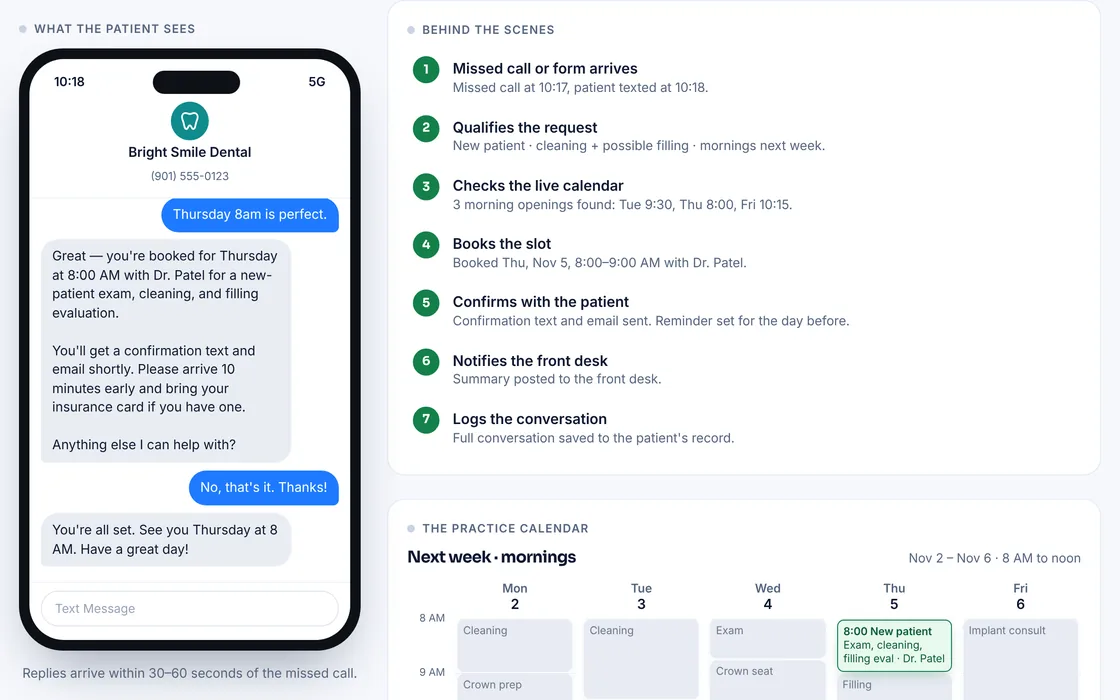
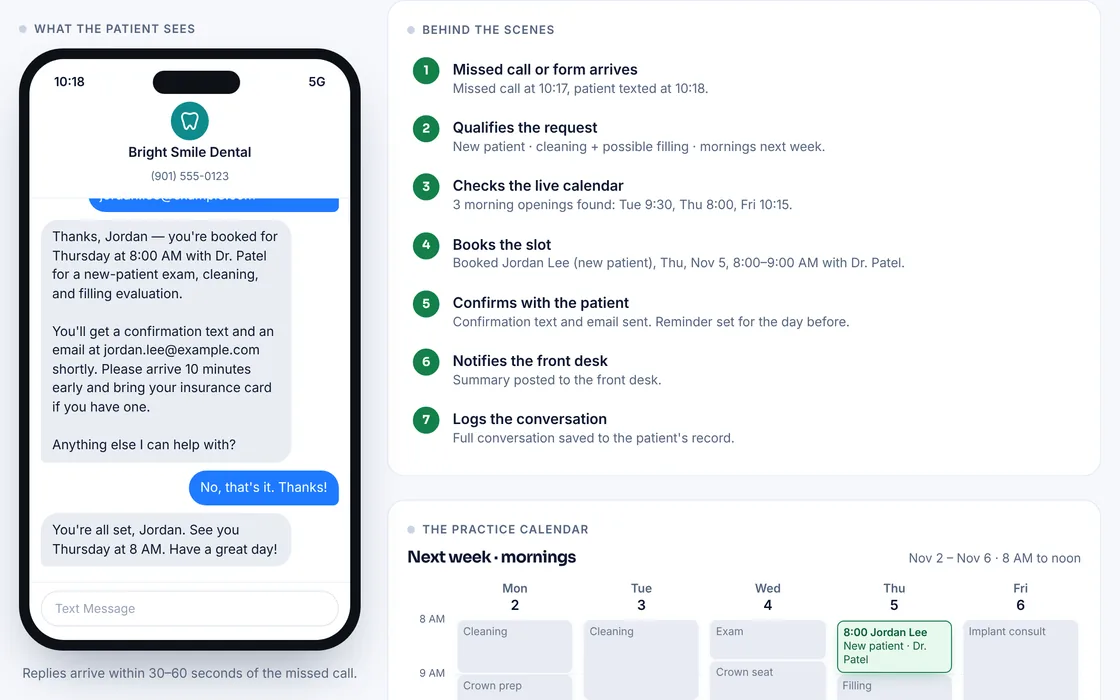
Offer the booking agent as a service and fix its demo script
Demo script:
- The agent says it's automated in its first text and offers STAFF to
  reach a person (urgent reply says it too)
- It explains Dr. Patel is the first available dentist that morning
- It holds Thursday 8:00 while asking for the patient's name and email,
  then books Jordan Lee; calendar, confirmation and front-desk card
  carry the name and email
- Front-desk card no longer centers its contents
- Explainer no longer promises it works with every calendar

Homepage:
- New "Missed calls, booked while you're busy" section with the demo
  screenshot, linked from the nav and footer
- Pricing add-on row (quoted per business, setup + monthly) and a plan
  option on the contact form
- FAQ entry on how it works (HTML and JSON-LD), monthly-fee answer and
  running-cost note updated, Offer added to structured data
- Nav collapses at 1040px and the phone number hides below 1180px so
  the extra link never wraps the header

Claude-Session: https://claude.ai/code/session_01CaDQdpUJgn1VU3LpoFRMTD

diff --git a/index.html b/index.html
@@ -23,7 +23,7 @@
 <link rel="preload" href="assets/work/summer-avenue-animal-hospital-desktop.webp" as="image" fetchpriority="high">
 <script type="application/ld+json">
 {"@context":"https://schema.org","@type":"ProfessionalService","name":"Bartlett Website Design","url":"https://bartlettwebsitedesign.online/","logo":"https://bartlettwebsitedesign.online/assets/logo-mark-512.png","image":"https://bartlettwebsitedesign.online/assets/og-image.png","telephone":"+1-901-321-0023","email":"bartlett.website.design@gmail.com","description":"Website design for small businesses in Bartlett, Memphis and the Mid-South. See a free draft before you pay.","founder":{"@type":"Person","name":"Austin"},"priceRange":"$350–$950","areaServed":["Bartlett, TN","Memphis, TN","Cordova, TN","Germantown, TN","Arlington, TN","Lakeland, TN"],"address":{"@type":"PostalAddress","addressLocality":"Bartlett","addressRegion":"TN","addressCountry":"US"},
-"makesOffer":[{"@type":"Offer","name":"Starter website","price":"350","priceCurrency":"USD"},{"@type":"Offer","name":"Business website","price":"950","priceCurrency":"USD"},{"@type":"Offer","name":"Care plan","price":"45","priceCurrency":"USD","description":"Per month, optional"}]}
+"makesOffer":[{"@type":"Offer","name":"Starter website","price":"350","priceCurrency":"USD"},{"@type":"Offer","name":"Business website","price":"950","priceCurrency":"USD"},{"@type":"Offer","name":"Care plan","price":"45","priceCurrency":"USD","description":"Per month, optional"},{"@type":"Offer","name":"Missed-call booking agent","description":"Texts back missed calls and books appointments. Setup and monthly price quoted per business."}]}
 </script>
 <script type="application/ld+json">
 {"@context":"https://schema.org","@type":"FAQPage","mainEntity":[
@@ -33,9 +33,10 @@
 {"@type":"Question","name":"Can you use my existing logo, photos and content?","acceptedAnswer":{"@type":"Answer","text":"Yes. Send whatever you have: logo, photos, price list, menu or the text from your current site. If something's missing or blurry, I'll tell you and suggest options. The Business plan includes a custom logo if you need a new one."}},
 {"@type":"Question","name":"How long until my site is live?","acceptedAnswer":{"@type":"Answer","text":"Most sites go from first chat to live in about 7 days. The biggest factor is how quickly we can confirm your hours, services and photos."}},
 {"@type":"Question","name":"Do I own my website and domain?","acceptedAnswer":{"@type":"Answer","text":"Yes. Your domain is registered in your name and you get a copy of every file. You're never locked in."}},
-{"@type":"Question","name":"Are there monthly fees or contracts?","acceptedAnswer":{"@type":"Answer","text":"No long-term contracts. You pay once for your site. Hosting is free, and the domain is about $10 to $12 a year, paid straight to the registrar. The $45/month care plan is optional and you can cancel any time."}},
+{"@type":"Question","name":"Are there monthly fees or contracts?","acceptedAnswer":{"@type":"Answer","text":"No long-term contracts. You pay once for your site. Hosting is free, and the domain is about $10 to $12 a year, paid straight to the registrar. The $45/month care plan is optional and you can cancel any time. The missed-call booking agent has its own monthly fee, quoted in writing before it's set up."}},
 {"@type":"Question","name":"What happens if I need changes after the site is live?","acceptedAnswer":{"@type":"Answer","text":"Text me what you need. On the care plan, updates like hours, prices and photos are included. Without it, I'll tell you the price before I do any work, so there are no surprise bills. And since you have every file, you're free to have anyone make changes."}},
 {"@type":"Question","name":"I already take bookings on Square, MoeGo or Vagaro. Will that change?","acceptedAnswer":{"@type":"Answer","text":"No. Your Book online buttons go straight to the booking page you already use, so nothing changes for you or your regulars."}},
+{"@type":"Question","name":"How does the missed-call booking agent work?","acceptedAnswer":{"@type":"Answer","text":"When a call goes unanswered, it texts the caller within a minute, says it's an automated assistant and asks what they need. It offers times that are really open in your schedule, books the one they pick, sends the confirmation and posts a summary for your front desk. Anything urgent, unclear or outside booking goes straight to a person."}},
 {"@type":"Question","name":"I'm not a tech person. Is that a problem?","acceptedAnswer":{"@type":"Answer","text":"Not at all. That's who I build for. You won't need to log in to anything. Just tell me what you need in plain words."}}
 ]}
 </script>
@@ -86,7 +87,8 @@ img{max-width:100%;height:auto;display:block}
 .logo-top{font:700 1.2rem/1 Sora,sans-serif;letter-spacing:-.03em}
 .logo-bottom{font:600 .66rem/1 Inter,sans-serif;letter-spacing:.2em;text-transform:uppercase;color:var(--blue);margin-top:5px}
 .nav{display:flex;gap:26px}
-.nav a{color:var(--muted);text-decoration:none;font-weight:500;font-size:.95rem}
+.nav a{color:var(--muted);text-decoration:none;font-weight:500;font-size:.95rem;white-space:nowrap}
+.header-inner .btn{white-space:nowrap}
 .nav a:hover{color:var(--ink)}
 .header-phone{display:inline-flex;align-items:center;gap:7px;font-weight:600;color:var(--navy);text-decoration:none;font-size:.95rem;white-space:nowrap}
 .header-phone .icon{color:var(--blue);width:1em;height:1em}
@@ -195,6 +197,16 @@ a.work-card:hover .visit .icon{transform:translateX(3px)}
 .step .free{display:inline-block;margin-left:6px;font:600 .68rem/1 Inter,sans-serif;letter-spacing:.06em;text-transform:uppercase;color:var(--green);background:var(--green-50);border-radius:999px;padding:4px 8px;vertical-align:3px}
 .step .when{display:block;font-size:.8rem;font-weight:600;color:var(--blue);margin-bottom:6px}
 
+/* Booking agent */
+.agent{display:grid;grid-template-columns:minmax(0,1fr) minmax(0,1.1fr);gap:56px;align-items:center}
+.agent-points{list-style:none;padding:0;margin:26px 0 30px;display:grid;gap:16px}
+.agent-points li{display:flex;gap:14px;align-items:flex-start;color:var(--muted);font-size:.97rem;line-height:1.5}
+.agent-points .ic{flex:none;width:38px;height:38px;border-radius:10px;display:grid;place-items:center;background:var(--blue-50);color:var(--blue)}
+.agent-points .icon{width:1.05em;height:1.05em}
+.agent-points b{display:block;color:var(--ink)}
+.agent-actions{display:flex;flex-wrap:wrap;gap:12px}
+.agent-fit{margin:18px 0 0;font-size:.9rem;color:var(--muted)}
+
 /* Pricing */
 .pricing{background:var(--navy);color:#fff;position:relative;overflow:hidden}
 .pricing::before{content:"";position:absolute;inset:-40% -10% auto auto;width:700px;height:700px;background:radial-gradient(circle,rgba(47,123,255,.35),transparent 65%);pointer-events:none}
@@ -215,6 +227,17 @@ a.work-card:hover .visit .icon{transform:translateX(3px)}
 .plan .btn{margin-top:auto}
 .plan:not(.featured) .btn{background:rgba(255,255,255,.1);color:#fff;border-color:rgba(255,255,255,.2)}
 .plan:not(.featured) .btn:hover{background:rgba(255,255,255,.16)}
+.addon{position:relative;margin-top:20px;display:grid;grid-template-columns:minmax(0,1.1fr) minmax(0,1fr) auto;gap:20px 36px;align-items:center;background:rgba(255,255,255,.05);border:1px solid rgba(255,255,255,.12);border-radius:22px;padding:26px}
+.addon .plan-name{justify-content:flex-start;flex-wrap:wrap;gap:8px 10px;margin-bottom:10px;line-height:1.3}
+.addon .badge{white-space:nowrap}
+.addon .plan-for{margin:0}
+.addon ul{list-style:none;padding:0;margin:0;display:grid;gap:8px;font-size:.95rem}
+.addon li{display:flex;gap:10px;align-items:flex-start}
+.addon li .icon{color:var(--sky);margin-top:3px;width:1.05em;height:1.05em}
+.addon-cta{display:grid;gap:12px;justify-items:start}
+.addon .price{font-size:2rem;margin:0}
+.addon .btn{background:rgba(255,255,255,.1);color:#fff;border-color:rgba(255,255,255,.2)}
+.addon .btn:hover{background:rgba(255,255,255,.16)}
 .pay-note{position:relative;margin:28px auto 0;max-width:760px;display:flex;align-items:center;gap:14px;justify-content:center;flex-wrap:wrap;text-align:center;color:#b9c6e0;font-size:.96rem}
 .pay-note strong{color:#fff}
 
@@ -324,18 +347,20 @@ a.work-card:hover .visit .icon{transform:translateX(3px)}
 .mobile-bar{display:none}
 
 /* Responsive */
+@media (max-width:1180px){.header-phone{display:none}}
 @media (max-width:1060px){
   .hero-inner{grid-template-columns:1fr;gap:56px}
   .mockup{max-width:620px;margin:0 auto;width:100%}
   .steps{grid-template-columns:1fr 1fr}
   .plans{grid-template-columns:1fr;max-width:480px;margin:0 auto}
   .faq-grid,.contact,.proof{grid-template-columns:1fr;gap:32px}
+  .agent{grid-template-columns:1fr;gap:40px}
+  .addon{grid-template-columns:1fr;max-width:480px;margin-left:auto;margin-right:auto}
   .fit{grid-template-columns:1fr}
   .work-item,.work-item.big{grid-column:span 6}
   .risk{grid-template-columns:repeat(3,1fr)}
-  .header-phone{display:none}
 }
-@media (max-width:880px){
+@media (max-width:1040px){
   .nav{display:none;position:absolute;top:70px;left:0;right:0;flex-direction:column;gap:0;background:#fff;border-bottom:1px solid var(--line);padding:8px 20px 16px;box-shadow:0 20px 30px -20px rgba(10,26,58,.2)}
   .nav.open{display:flex}
   .nav a{padding:13px 0;border-bottom:1px solid var(--line);font-size:1.02rem}
@@ -366,6 +391,7 @@ a.work-card:hover .visit .icon{transform:translateX(3px)}
   .avatar{width:128px;height:128px;font-size:3.4rem;margin:0 auto}
   .facts,.about-actions{justify-content:center}
   .about-actions .btn{flex:1 1 100%}
+  .agent-actions .btn{flex:1 1 100%}
   .footer-grid{grid-template-columns:1fr}
   .direct,.checkable{padding:26px 22px}
   .promise{padding:14px}
@@ -412,7 +438,7 @@ a.work-card:hover .visit .icon{transform:translateX(3px)}
       <span class="logo-text"><span class="logo-top">Bartlett</span><span class="logo-bottom">Website Design</span></span>
     </a>
     <nav class="nav" id="nav" aria-label="Main">
-      <a href="#work">Work</a><a href="demos/">Demos</a><a href="#process">How it works</a><a href="#pricing">Pricing</a><a href="#about">About</a><a href="#faq">FAQ</a>
+      <a href="#work">Work</a><a href="demos/">Demos</a><a href="#process">How it works</a><a href="#booking-agent">Booking agent</a><a href="#pricing">Pricing</a><a href="#about">About</a><a href="#faq">FAQ</a>
     </nav>
     <a class="header-phone" href="tel:+19013210023"><svg class="icon"><use href="#i-phone"/></svg>(901) 321-0023</a>
     <a class="btn btn-primary btn-small" href="#contact">Get my free draft</a>
@@ -558,6 +584,28 @@ a.work-card:hover .visit .icon{transform:translateX(3px)}
     </div>
   </section>
 
+  <!-- BOOKING AGENT: add-on service. The linked demo uses a fictional practice, and says so. -->
+  <section class="section section-soft" id="booking-agent" aria-labelledby="agent-title">
+    <div class="wrap agent">
+      <div>
+        <p class="kicker">Add-on · Missed-call booking agent</p>
+        <h2 id="agent-title">Missed calls, booked while you're busy.</h2>
+        <p class="section-lede">When you can't get to the phone, the booking agent texts the caller back within a minute, finds out what they need, offers times that are really open and books the one they pick. You get a clean summary. Anything urgent or unclear goes straight to you instead.</p>
+        <ul class="agent-points">
+          <li><span class="ic"><svg class="icon"><use href="#i-phone"/></svg></span><span><b>Replies in under a minute</b>Callers hear back before they try the next business on Google.</span></li>
+          <li><span class="ic"><svg class="icon"><use href="#i-eye"/></svg></span><span><b>Always says it's automated</b>Callers know they're texting an assistant, and can reply STAFF to reach a person any time.</span></li>
+          <li><span class="ic"><svg class="icon"><use href="#i-check"/></svg></span><span><b>One clear job</b>It books appointments. Pain, billing, insurance and anything it isn't sure about go to your team.</span></li>
+          <li><span class="ic"><svg class="icon"><use href="#i-key"/></svg></span><span><b>Works with your schedule</b>It books into the system you already use. If yours can't connect, I'll tell you before you pay anything.</span></li>
+        </ul>
+        <div class="agent-actions"><a class="btn btn-primary" href="demos/missed-call-booking-agent/">Try the live demo<svg class="icon"><use href="#i-arrow"/></svg></a><a class="btn btn-ghost" href="#contact" data-plan="Missed-call booking agent">Ask about it</a></div>
+        <p class="agent-fit">Built for dental offices, vet clinics, groomers and salons: any business that books appointments by phone.</p>
+      </div>
+      <a class="work-card" href="demos/missed-call-booking-agent/">
+        <div class="browser"><div class="browser-bar" aria-hidden="true"><i></i><i></i><i></i><span>Live demo · Missed-call booking agent</span></div><img src="assets/work/demo-missed-call-booking-agent.webp" alt="Booking agent demo: a patient's text conversation on a phone, a seven-step checklist of what happens behind the scenes, and a calendar with Thursday 8 AM booked" loading="lazy" width="1120" height="700"></div>
+      </a>
+    </div>
+  </section>
+
   <!-- PRICING -->
   <section class="section pricing" id="pricing" aria-labelledby="pricing-title">
     <div class="wrap">
@@ -605,7 +653,23 @@ a.work-card:hover .visit .icon{transform:translateX(3px)}
           <a class="btn" href="#contact" data-plan="Care plan ($45/mo)">Ask about care</a>
         </li>
       </ul>
-      <p class="pay-note"><span>You pay <strong>after</strong> you approve your draft. After launch, your only running cost is the domain, <strong>about $10 to $12 a year</strong>.</span></p>
+      <div class="addon">
+        <div class="addon-head">
+          <p class="plan-name">Missed-call booking agent <span class="badge">Add-on</span></p>
+          <p class="plan-for">Texts back missed calls and books the appointment. Works with or without a new website.</p>
+        </div>
+        <ul>
+          <li><svg class="icon"><use href="#i-check"/></svg>Text-back within a minute</li>
+          <li><svg class="icon"><use href="#i-check"/></svg>Books into your schedule</li>
+          <li><svg class="icon"><use href="#i-check"/></svg>Front-desk summary for every booking</li>
+          <li><svg class="icon"><use href="#i-check"/></svg>Hands urgent requests to a person</li>
+        </ul>
+        <div class="addon-cta">
+          <p class="price">Quote<small>setup + monthly</small></p>
+          <a class="btn" href="#contact" data-plan="Missed-call booking agent">Get a quote</a>
+        </div>
+      </div>
+      <p class="pay-note"><span>For a website, you pay <strong>after</strong> you approve your draft, and your only running cost after launch is the domain, <strong>about $10 to $12 a year</strong>. The booking agent's setup and monthly price are quoted in writing before anything is turned on.</span></p>
     </div>
   </section>
 
@@ -723,9 +787,10 @@ a.work-card:hover .visit .icon{transform:translateX(3px)}
         <details><summary>Can you use my existing logo, photos and content?<svg class="icon"><use href="#i-plus"/></svg></summary><p>Yes. Send whatever you have: logo, photos, price list, menu or the text from your current site. If something's missing or blurry, I'll tell you and suggest options. The Business plan includes a custom logo if you need a new one.</p></details>
         <details><summary>How long until my site is live?<svg class="icon"><use href="#i-plus"/></svg></summary><p>Most sites go from first chat to live in about 7 days. The biggest factor is how quickly we can confirm your hours, services and photos.</p></details>
         <details><summary>Do I own my website and domain?<svg class="icon"><use href="#i-plus"/></svg></summary><p>Yes. Your domain is registered in your name and you get a copy of every file. You're never locked in.</p></details>
-        <details><summary>Are there monthly fees or contracts?<svg class="icon"><use href="#i-plus"/></svg></summary><p>No long-term contracts. You pay once for your site. Hosting is free, and the domain is about $10 to $12 a year, paid straight to the registrar. The $45/month care plan is optional and you can cancel any time.</p></details>
+        <details><summary>Are there monthly fees or contracts?<svg class="icon"><use href="#i-plus"/></svg></summary><p>No long-term contracts. You pay once for your site. Hosting is free, and the domain is about $10 to $12 a year, paid straight to the registrar. The $45/month care plan is optional and you can cancel any time. The missed-call booking agent has its own monthly fee, quoted in writing before it's set up.</p></details>
         <details><summary>What happens if I need changes after the site is live?<svg class="icon"><use href="#i-plus"/></svg></summary><p>Text me what you need. On the care plan, updates like hours, prices and photos are included. Without it, I'll tell you the price before I do any work, so there are no surprise bills. And since you have every file, you're free to have anyone make changes.</p></details>
         <details><summary>I already take bookings on Square, MoeGo or Vagaro. Will that change?<svg class="icon"><use href="#i-plus"/></svg></summary><p>No. Your Book online buttons go straight to the booking page you already use, so nothing changes for you or your regulars.</p></details>
+        <details><summary>How does the missed-call booking agent work?<svg class="icon"><use href="#i-plus"/></svg></summary><p>When a call goes unanswered, it texts the caller within a minute, says it's an automated assistant and asks what they need. It offers times that are really open in your schedule, books the one they pick, sends the confirmation and posts a summary for your front desk. Anything urgent, unclear or outside booking goes straight to a person. <a href="demos/missed-call-booking-agent/">Try the demo</a> to see a full conversation.</p></details>
         <details><summary>I'm not a tech person. Is that a problem?<svg class="icon"><use href="#i-plus"/></svg></summary><p>Not at all. That's who I build for. You won't need to log in to anything. Just tell me what you need in plain words.</p></details>
       </div>
     </div>
@@ -773,6 +838,7 @@ a.work-card:hover .visit .icon{transform:translateX(3px)}
             <option>Starter ($350)</option>
             <option>Business ($950)</option>
             <option>Care plan ($45/mo)</option>
+            <option>Missed-call booking agent</option>
           </select>
         </label>
         <label class="full"><span>Anything else? <span class="opt">(optional)</span></span><textarea name="message" placeholder="What you do, your website or Facebook page if you have one, and what customers should be able to do on your site"></textarea></label>
@@ -808,6 +874,7 @@ a.work-card:hover .visit .icon{transform:translateX(3px)}
         <ul>
           <li><a href="#work">Work</a></li>
           <li><a href="#process">How it works</a></li>
+          <li><a href="#booking-agent">Booking agent</a></li>
           <li><a href="#pricing">Pricing</a></li>
           <li><a href="#faq">FAQ</a></li>
           <li><a href="#contact">Free draft</a></li>

diff --git a/demos/missed-call-booking-agent/index.html b/demos/missed-call-booking-agent/index.html
@@ -143,7 +143,7 @@ button{font:inherit}
 
 /* Front desk */
 .fd{border-radius:14px;border:1px solid var(--line);background:var(--soft);padding:16px;min-height:120px;display:grid;place-items:center;color:var(--muted);font-size:.9rem;text-align:center}
-.fd.filled{display:block;text-align:left;background:#fff;animation:pop .35s ease-out both;color:var(--ink)}
+.fd.filled{display:block;place-items:normal;text-align:left;background:#fff;animation:pop .35s ease-out both;color:var(--ink)}
 .fd .top{display:flex;align-items:center;gap:10px;margin-bottom:12px}
 .fd .bot{width:34px;height:34px;border-radius:10px;background:var(--navy);color:#fff;display:grid;place-items:center;flex:none}
 .fd .bot svg{width:18px;height:18px}
@@ -244,7 +244,7 @@ button{font:inherit}
     <div class="wrap">
       <span class="kicker">Live demo · Missed-call booking agent</span>
       <h1 id="title">A missed call becomes a booked appointment in under a minute.</h1>
-      <p>When the front desk can't pick up, the agent texts the caller back, finds out what they need, offers real open times and books the one they choose. The front desk gets a clean summary. If anything is unclear or urgent, it hands off to a person instead of guessing.</p>
+      <p>When the front desk can't pick up, the agent texts the caller back, says it&rsquo;s an automated assistant, finds out what they need, offers real open times and books the one they choose. The front desk gets a clean summary. If anything is unclear or urgent, it hands off to a person instead of guessing.</p>
       <p class="note"><svg class="icon" style="margin-top:.2em"><use href="#i-info"/></svg><span>Bright Smile Dental and Dr. Patel are made up for this demo. The conversation is a scripted replay, so nothing is sent or booked.</span></p>
     </div>
   </section>
@@ -311,9 +311,9 @@ button{font:inherit}
     <div class="wrap">
       <span class="kicker">One clear job</span>
       <h2 id="explain-title">It books the appointment. Everything else goes to a person.</h2>
-      <p class="lede">This is the simple version that practices actually use: one job, a fast reply, and a human fallback. It works with the calendar you already have, so nobody has to learn a new system.</p>
+      <p class="lede">This is the simple version that practices actually use: one job, a fast reply, and a human fallback. It books into the scheduling system the practice already uses, so nobody has to learn a new one.</p>
       <div class="cols">
-        <div class="card"><h3>What it handles</h3><ul><li>Texts back every missed call within a minute</li><li>New or existing patient, visit type and preferred times</li><li>Offers only times that are really open</li><li>Books, confirms and sends a reminder</li></ul></div>
+        <div class="card"><h3>What it handles</h3><ul><li>Texts back every missed call within a minute</li><li>Says up front that it&rsquo;s automated</li><li>New or existing patient, visit type and preferred times</li><li>Offers only times that are really open</li><li>Gets the patient&rsquo;s name and email, then books, confirms and sends a reminder</li></ul></div>
         <div class="card"><h3>When it hands off</h3><ul><li>Pain, swelling, bleeding or anything urgent</li><li>Requests it can't match to a visit type</li><li>Billing, insurance and treatment questions</li><li>Any patient who asks for a person</li></ul></div>
         <div class="card"><h3>What the practice gets</h3><ul><li>Fewer patients lost to voicemail</li><li>A clean summary for every booking</li><li>A full log of every conversation</li><li>A front desk that isn't chasing callbacks</li></ul></div>
       </div>
@@ -413,24 +413,26 @@ button{font:inherit}
       [400, function(){ missed(); step(1,"active","Call to (901) 555-0123 went unanswered at 10:17 AM."); }],
       [1300, function(){ me("Hi, I need to get a cleaning and maybe a filling. I'm a new patient. Can I come in next week? Preferably mornings."); step(1,"done","Missed call at 10:17, patient texted at 10:18."); step(2,"active","Reading the message…"); typing(true); }],
       [1500, function(){ step(2,"done","New patient · cleaning + possible filling · mornings next week."); step(3,"active","Looking for 60-minute morning openings next week…"); slots.forEach(function(s){ s.classList.add("lit"); }); }],
-      [1600, function(){ step(3,"done","3 morning openings found: Tue 9:30, Thu 8:00, Fri 10:15."); them("Hi, this is the front desk assistant at Bright Smile Dental. I'd be happy to help you book that.\n\nYou're a new patient looking for a cleaning and possible filling, mornings next week — correct?\n\nWe have openings:\n• Tuesday 9:30 AM\n• Thursday 8:00 AM\n• Friday 10:15 AM\n\nWhich works best for you?"); add("sys","Replied in 40 seconds"); }],
-      [2600, function(){ me("Thursday 8am is perfect."); step(4,"active","Holding Thursday 8:00 AM…"); slots.forEach(function(s){ if (s !== thuSlot) { s.classList.remove("lit"); s.classList.add("dim"); } }); typing(true); }],
-      [1500, function(){
+      [1600, function(){ step(3,"done","3 morning openings found: Tue 9:30, Thu 8:00, Fri 10:15."); them("Hi, this is the automated booking assistant at Bright Smile Dental. Sorry we missed your call! I'd be happy to help you book that.\n\nYou're a new patient looking for a cleaning and possible filling, mornings next week — correct?\n\nWe have openings:\n• Tuesday 9:30 AM\n• Thursday 8:00 AM\n• Friday 10:15 AM\n\nWhich works best for you? (Reply STAFF any time to reach a person.)"); add("sys","Replied in 40 seconds"); }],
+      [2800, function(){ me("Thursday 8am is perfect."); step(4,"active","Holding Thursday 8:00 AM while it gets the patient's name and email…"); slots.forEach(function(s){ if (s !== thuSlot) { s.classList.remove("lit"); s.classList.add("dim"); } }); typing(true); }],
+      [1400, function(){ them("Thursday at 8:00 AM is open with Dr. Patel, our first available dentist that morning. I'm holding it for you.\n\nTo finish booking, what's your full name and the best email for your confirmation?"); }],
+      [2400, function(){ me("Jordan Lee, jordan.lee@example.com"); typing(true); }],
+      [1300, function(){
         thuSlot.className = "ev booked";
-        thuSlot.innerHTML = '<b>8:00 New patient</b><span class="x">Exam, cleaning, filling eval · Dr. Patel</span>';
-        step(4,"done","Booked " + thuLong + ", 8:00–9:00 AM with Dr. Patel.");
+        thuSlot.innerHTML = '<b>8:00 Jordan Lee</b><span class="x">New patient · Dr. Patel</span>';
+        step(4,"done","Booked Jordan Lee (new patient), " + thuLong + ", 8:00–9:00 AM with Dr. Patel.");
         step(5,"active","Writing the confirmation…");
       }],
-      [1000, function(){ them("Great — you're booked for Thursday at 8:00 AM with Dr. Patel for a new-patient exam, cleaning, and filling evaluation.\n\nYou'll get a confirmation text and email shortly. Please arrive 10 minutes early and bring your insurance card if you have one.\n\nAnything else I can help with?"); step(5,"done","Confirmation text and email sent. Reminder set for the day before."); step(6,"active","Sending the summary to the front desk…"); }],
+      [1000, function(){ them("Thanks, Jordan — you're booked for Thursday at 8:00 AM with Dr. Patel for a new-patient exam, cleaning, and filling evaluation.\n\nYou'll get a confirmation text and an email at jordan.lee@example.com shortly. Please arrive 10 minutes early and bring your insurance card if you have one.\n\nAnything else I can help with?"); step(5,"done","Confirmation text and email sent. Reminder set for the day before."); step(6,"active","Sending the summary to the front desk…"); }],
       [1200, function(){
         fd.className = "fd filled";
-        fd.innerHTML = '<div class="top"><span class="bot"><svg><use href="#i-bot"/></svg></span><span class="who"><b>Booking agent</b> · #front-desk · 10:19 AM</span></div>' +
+        fd.innerHTML = '<div class="top"><span class="bot"><svg><use href="#i-bot"/></svg></span><span class="who"><b>Booking agent</b> · #front-desk · 10:20 AM</span></div>' +
           '<h4>New patient booked <span class="pill ok">Confirmed</span></h4><p class="sub">Booked from a missed call. Confirmation sent to the patient.</p>' +
-          '<dl><dt>Patient</dt><dd>New patient · <span style="white-space:nowrap">(901) 555-0148</span></dd><dt>Visit</dt><dd>New-patient exam, cleaning, filling evaluation (60 min)</dd><dt>When</dt><dd>' + thuLong + ' · 8:00 AM · Dr. Patel</dd><dt>Notes</dt><dd>Asked for mornings. Mentioned a possible filling.</dd></dl>';
+          '<dl><dt>Patient</dt><dd>Jordan Lee (new) · <span style="white-space:nowrap">(901) 555-0148</span> · jordan.lee@example.com</dd><dt>Visit</dt><dd>New-patient exam, cleaning, filling evaluation (60 min)</dd><dt>When</dt><dd>' + thuLong + ' · 8:00 AM · Dr. Patel</dd><dt>Notes</dt><dd>Asked for mornings. Mentioned a possible filling.</dd></dl>';
         step(6,"done","Summary posted to the front desk.");
       }],
       [1800, function(){ me("No, that's it. Thanks!"); typing(true); }],
-      [1300, function(){ them("You're all set. See you Thursday at 8 AM. Have a great day!"); step(7,"active"); }],
+      [1300, function(){ them("You're all set, Jordan. See you Thursday at 8 AM. Have a great day!"); step(7,"active"); }],
       [900, function(){ step(7,"done","Full conversation saved to the patient's record."); finish(); }]
     ],
     urgent: [
@@ -445,7 +447,7 @@ button{font:inherit}
           '<dl><dt>Patient</dt><dd><span style="white-space:nowrap">(901) 555-0148</span> · new or existing not yet known</dd><dt>Why</dt><dd>Severe pain with swelling, wants to be seen today</dd><dt>Told patient</dt><dd>A team member will call shortly</dd></dl>';
         step(6,"done","Urgent alert sent to the front desk.");
       }],
-      [700, function(){ them("I'm sorry you're dealing with that. Pain with swelling is something our team should handle directly, so I've flagged this as urgent and someone from our office will call you shortly.\n\nIf the swelling spreads toward your eye or neck, or you have any trouble breathing or swallowing, call 911 or go to the nearest ER."); add("sys","Replied in 35 seconds"); step(7,"active"); }],
+      [700, function(){ them("This is the automated assistant at Bright Smile Dental. I'm sorry you're dealing with that. Pain with swelling is something our team should handle directly, so I've flagged this as urgent and someone from our office will call you shortly.\n\nIf the swelling spreads toward your eye or neck, or you have any trouble breathing or swallowing, call 911 or go to the nearest ER."); add("sys","Replied in 35 seconds"); step(7,"active"); }],
       [1100, function(){ step(7,"done","Conversation saved and marked for a callback."); finish(); }]
     ]
   };
